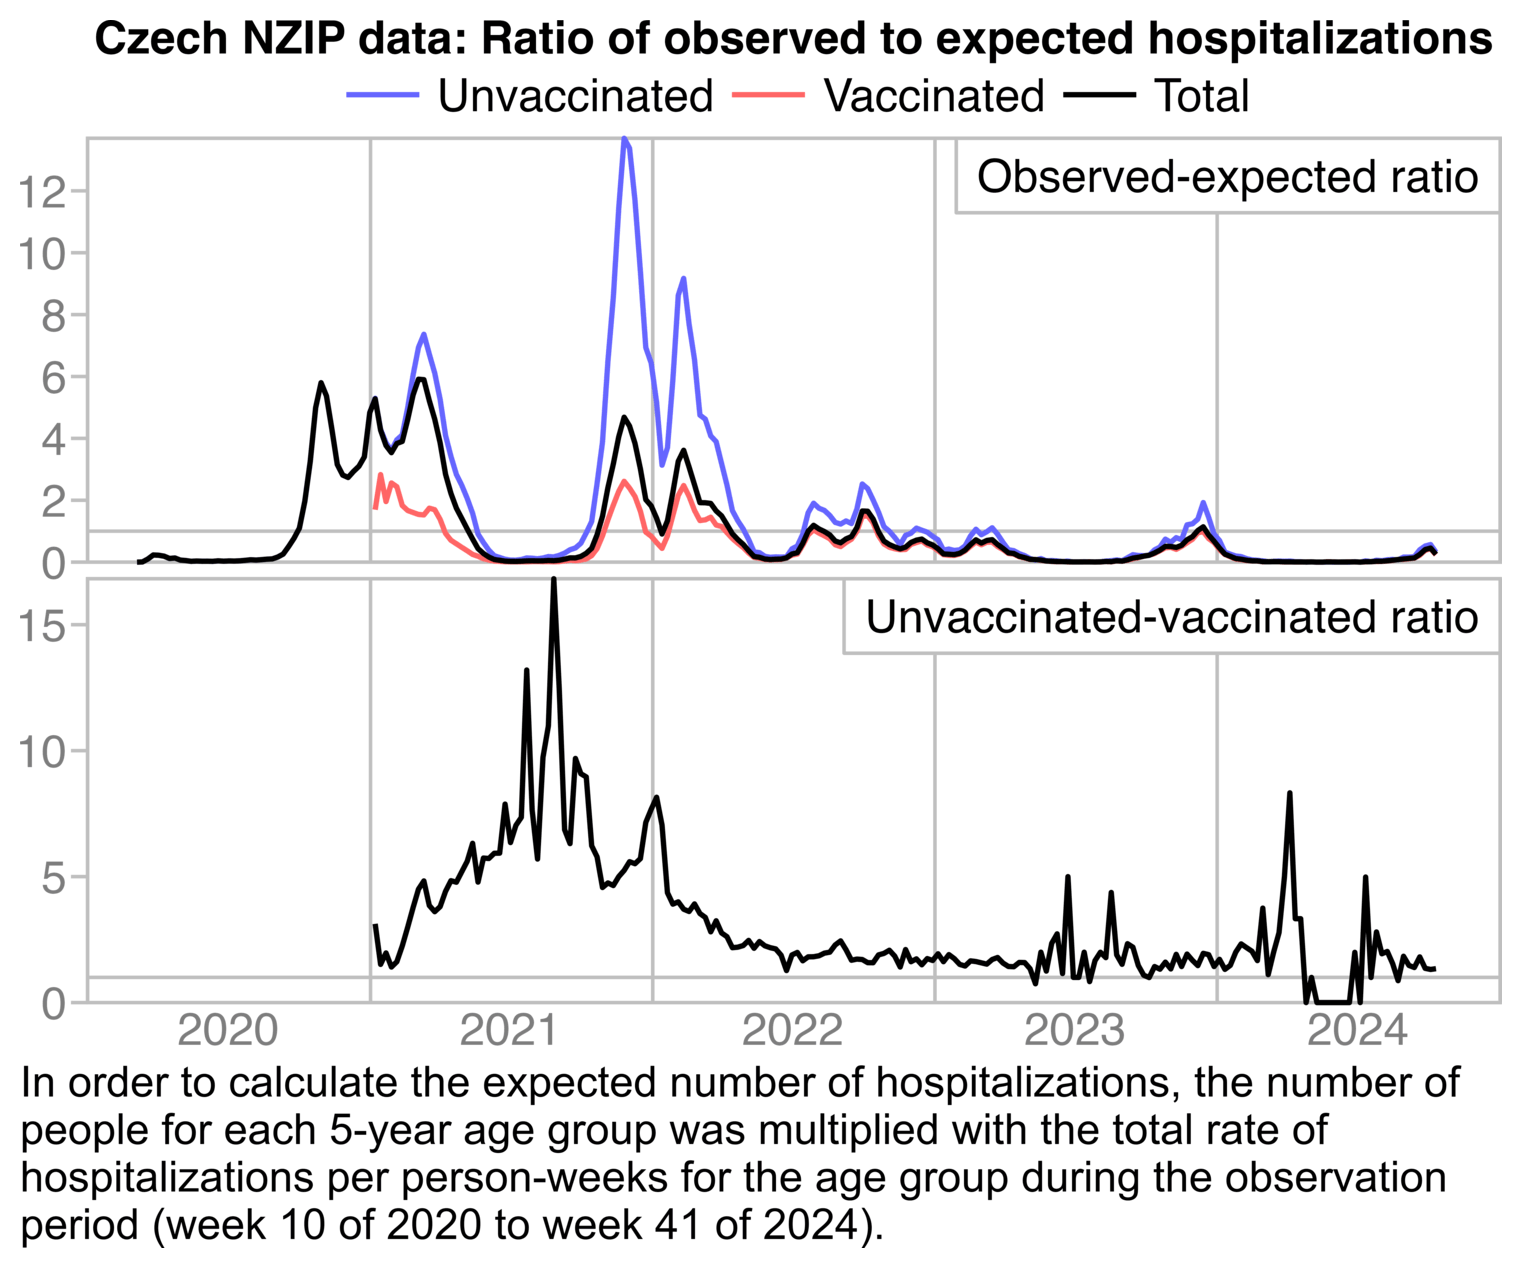
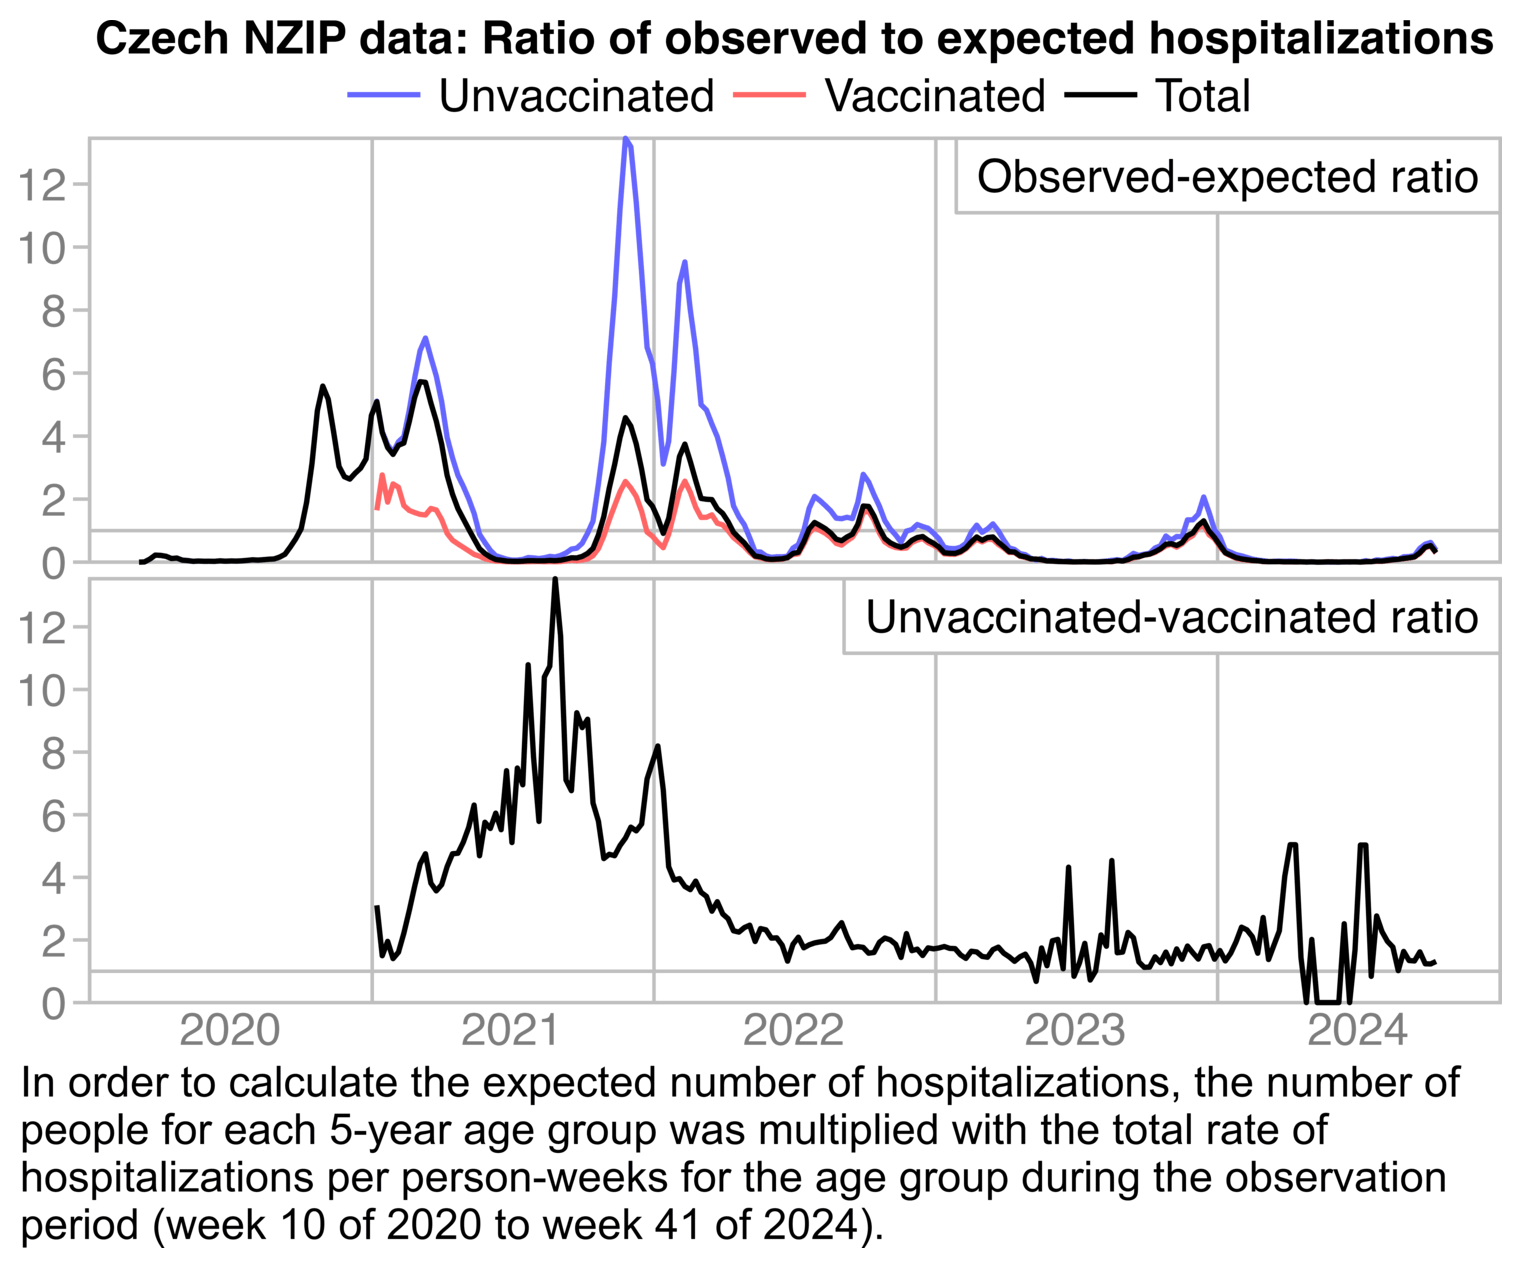
a

diff --git a/rootclaim5.html b/rootclaim5.html
@@ -4950,7 +4950,7 @@ here remain close to 1 from mid-2022 onwards? Why did the <span
 class="quote">'NPH'</span> go away after unvaccinated people acquired
 natural immunity?"</span></p>
 <div>
-<img src=i/rootclaim-czech-hosp-oe.png width=530>
+<img src=i/rootclaim-czech-hosp-oe.png width=550>
 </div>
 <div class="spoiler">
 <button>
@@ -4958,18 +4958,14 @@ Show code
 </button>
 <pre>t=fread(&quot;Otevrena-data-NR-26-30-COVID-19-prehled-populace-2024-01.csv.gz&quot;)
 t=t[RokNarozeni!=&quot;-&quot;]
-
-t[,born:=RokNarozeni]
-t[,vax:=Datum_Prvni_davka]
-
-t[,hosp:=min_Hospitalizace]
+t[,born:=RokNarozeni][,vax:=Datum_Prvni_davka][,hosp:=min_Hospitalizace]
 t2=t[Infekce%in%c(1,NA)]
 
-pop=t[vax!=&quot;&quot;,.(pop=.N,dose=1),.(week=vax,born)]
-pop=rbind(pop,t[,.(week=&quot;2020-10&quot;,pop=.N,dose=0),born])
+pop=t2[vax!=&quot;&quot;,.(pop=.N,dose=1),.(week=vax,born)]
+pop=rbind(pop,t2[,.(week=&quot;2020-10&quot;,pop=.N,dose=0),born])
 
-dead=t[,.(dead=.N),.(week=DatumUmrtiLPZ,dose=(vax!=&quot;&quot;)*1,born)]
-hosp=t2[,.(hosp=.N),.(week=hosp,dose=(vax!=&quot;&quot;&amp;vax&lt;=hosp)*1,born)]
+dead=t2[,.(dead=.N),.(week=DatumUmrtiLPZ,dose=(vax!=&quot;&quot;)*1,born)]
+hosp=t[,.(hosp=.N),.(week=hosp,dose=(vax!=&quot;&quot;&amp;vax&lt;=hosp)*1,born)]
 a=merge(hosp,merge(dead,pop,all=T),all=T)[week!=&quot;&quot;]
 
 a=merge(do.call(CJ,lapply(a[,1:3],unique)),a,all=T);a[is.na(a)]=0
@@ -5031,6 +5027,17 @@ theme(axis.text=element_text(size=11,color=&quot;gray50&quot;),
 ggsave(&quot;1.png&quot;,width=5.1,height=3.6,dpi=300*4)
 system(&quot;mogrify -trim 1.png;magick 1.png \\( -size `identify -format %w 1.png`x -font Arial -interline-spacing -3 -pointsize $[43*4] caption:&#39;In order to calculate the expected number of hospitalizations, the number of people for each 5-year age group was multiplied with the total rate of hospitalizations per person-weeks for the age group during the observation period (week 10 of 2020 to week 41 of 2024).&#39; -splice x$[12*4] \\) -append -trim -resize 25% -bordercolor white -border 20 -dither none -colors 256 1.png&quot;)</pre>
 </div>
+<p><span class="quote">"NPH"</span> or <span
+class="quote">"non-proportional hazards"</span> is a term that Kirsch
+has bastardized to mean that unvaccinated people have a higher COVID
+mortality risk than vaccinated people even after adjusting for HVE,
+which he invokes to explain why unvaccinated people are dropping like
+flies during the Delta wave. But in terms of the profile of
+comorbidities that makes people suspectible to die from COVID or be
+hospitalized with COVID, the composition of unvaccinated people probably
+doesn't change too much between the Delta wave and late 2022. So then
+why is the ratio between unvaccinated and vaccinated hospitalization
+rate much higher during the Delta wave than in late 2022?</p>
 <script>
 document.querySelectorAll('pre').forEach(e=>e.innerHTML=e.innerHTML.replace(/((^| )# [^\n]*|^#$)/mg,"<span class=comment>$1</span>"))
 

diff --git a/hamburgmath.html b/hamburgmath.html
@@ -56,8 +56,8 @@ blockquote h2,blockquote h3{text-align:left}
   .red,.red .quote{color:hsl(0,50%,60%)!important}
 }
 </style>
-<title>Genomic assembly of Wuhan-Hu-1 and comments about a paper by a mathematician from Hamburg</title>
-<h1>Genomic assembly of Wuhan-Hu-1 and comments about a paper by a mathematician from Hamburg - <a href=index.html>sars2.net</a></h1>
+<title>Genomic assembly of Wuhan-Hu-1 and paper by Hamburg mathematician</title>
+<h1>Genomic assembly of Wuhan-Hu-1 and paper by Hamburg mathematician - <a href=index.html>sars2.net</a></h1>
 <h2 id=Contents><a href=#Contents>Contents</a></h2>
 <ul class=toc>
 <li><a href="#Short_version">Short version</a></li>

diff --git a/index.html b/index.html
@@ -57,7 +57,7 @@ blockquote h2,blockquote h3{text-align:left}
 }
 </style>
 <title>Index</title>
-<h1>Index - <a href=index.html>sars2.net</a></h1>
+<h1>Index - sars2.net</h1>
 <dl>
 <dt>
 Statistics
@@ -171,7 +171,7 @@ ethnic differences in the frequency of ACE2 and TMPRSS2 alleles</a>
 </dd>
 <dd>
 2023-05-01 - <a href=hamburgmath.html>Genomic assembly of Wuhan-Hu-1 and
-notes about a paper by a mathematician from Hamburg</a>
+paper by Hamburg mathematician</a>
 </dd>
 <dd>
 2023-04-03 - <a href=scripts.html>Shell and R code for genetic analysis
